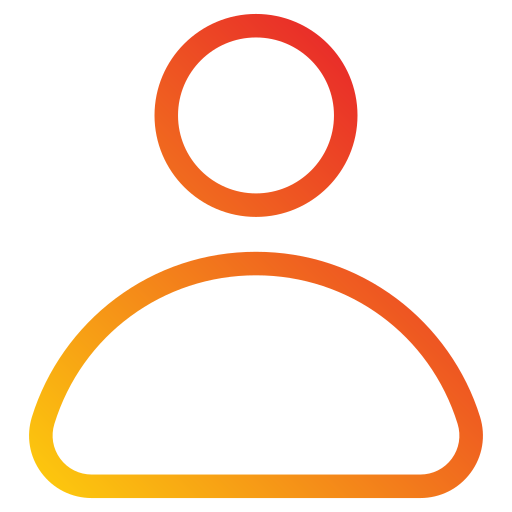
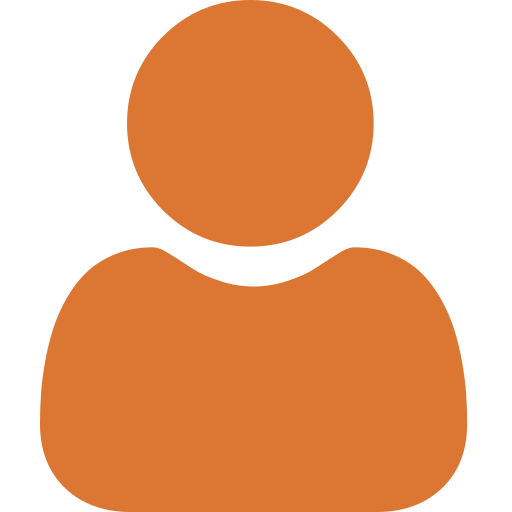
Ajustes navbar

diff --git a/src/app/layouts/layoutpagina/layoutpagina.component.ts b/src/app/layouts/layoutpagina/layoutpagina.component.ts
@@ -4,7 +4,6 @@ import { CookieService } from 'ngx-cookie-service';
 import { NgbModal } from '@ng-bootstrap/ng-bootstrap';
 import { MetodosGlobalesService } from 'src/app/core/metodosglobales.service';
 import { BsModalService, BsModalRef } from 'ngx-bootstrap/modal';
-import { Console } from 'console';
 import { THIS_EXPR } from '@angular/compiler/src/output/output_ast';
 
 @Component({
@@ -33,7 +32,8 @@ export class LayoutpaginaComponent implements OnInit {
     private cookies: CookieService,
     private modalServiceDos: NgbModal,
     private Servicios: MetodosGlobalesService) { }
-
+  //Variables nombre
+  NombreUsu: string = this.cookies.get('Nombre');
   ngOnInit(): void {
     this.Obtienedata();
   }
@@ -146,7 +146,6 @@ export class LayoutpaginaComponent implements OnInit {
       Id_Tipo_S: this.IdTipoServidor,
       Descripcion: this.LblDescripcionEdit
     }
-    console.log(EditTipoServidor)
     this.Servicios.actualizatiposervidor('2', EditTipoServidor).subscribe(respu => {
       this.modalMensaje = this._modalService.show(templateMensaje);
       this.lblModalMsaje = respu;

diff --git a/src/app/layouts/layoutpagina/layoutpagina.component.html b/src/app/layouts/layoutpagina/layoutpagina.component.html
@@ -1,8 +1,8 @@
 <nav class="navbar">
   <!-- LOGO -->
   <div class="logo">
-    AdminCDI
-    <img style="margin-left: 5px" src="../../../../assets/ImagenesAdminCDI/admin.png" />
+    <img style="margin-left: 5px" src="../../../../assets/ImagenesAdminCDI/usuario.png" class="BtnimgUsuario mr-2"/>
+    Hola, {{NombreUsu}} Bienvenido
   </div>
   <!-- NAVIGATION MENU -->
   <ul class="nav-links">
@@ -46,9 +46,9 @@
             class="BtnimgTamanoPeque mr-2"></a>
       </li>
 
-      <li>
+      <li class="cursorPointer">
         <img src="../../../assets/ImagenesAdminCDI/apagar.png" style="margin-left: 5px;"
-          class="cursorPointer BtnimgCerrarCesion mr-2" (click)="Cerrar()">
+          class="BtnimgTamanoPeque mr-2" (click)="Cerrar()">
 
       </li>
     </div>

diff --git a/src/app/layouts/layoutpagina/layoutpagina.component.css b/src/app/layouts/layoutpagina/layoutpagina.component.css
@@ -85,3 +85,10 @@ li {
   color: #000000;
   margin: auto;
 }
+
+
+.BtnimgUsuario{
+  width: 31px;
+  height: 31px;
+  padding: 0px;
+}
